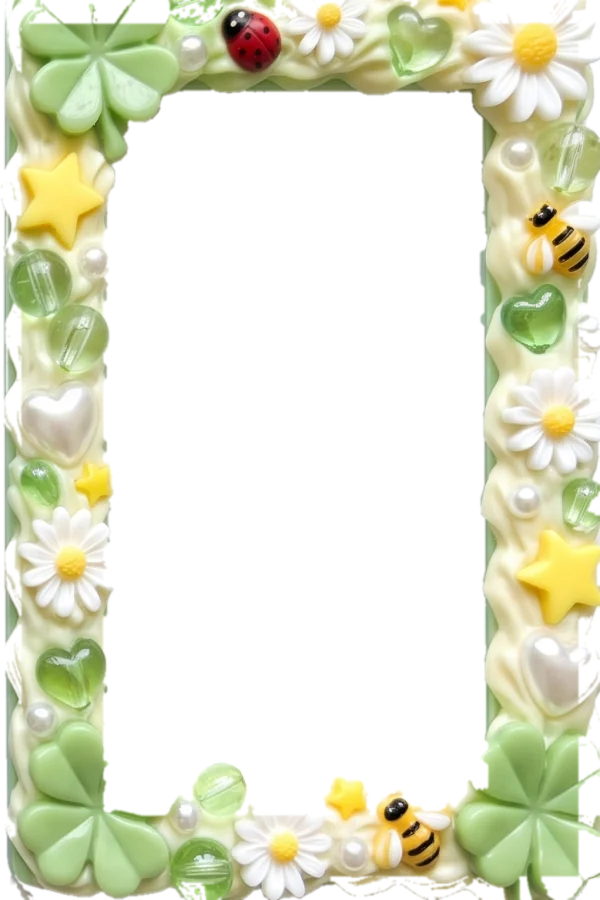
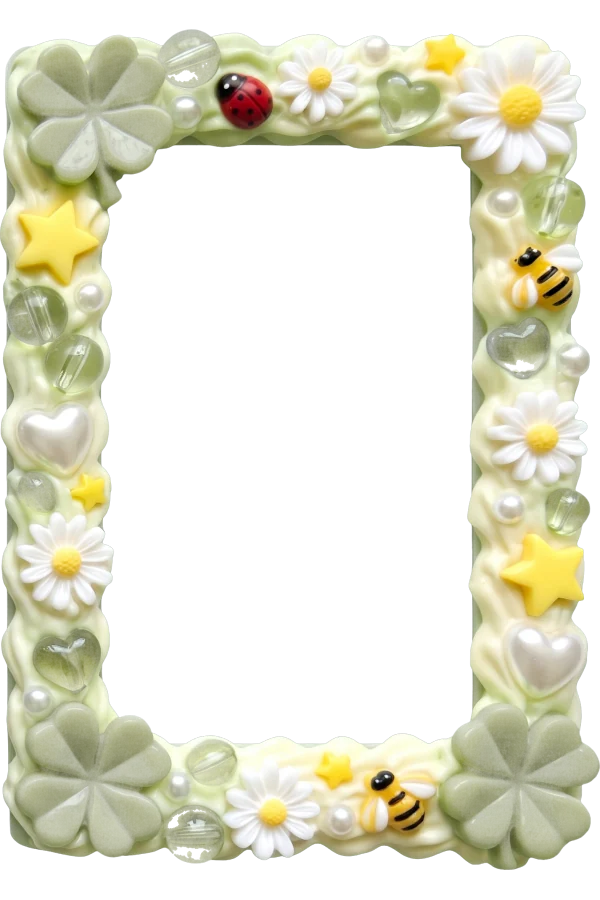
Add files via upload

diff --git a/zt-plus.js b/zt-plus.js
@@ -141,7 +141,7 @@ function zpToast(t) { const d = document.createElement('div'); d.className = 'zp
 .zp-slot .ck{width:20px;height:20px;border-radius:50%;border:2px solid #D1D6DB}
 .zp-slot.on{border-color:#191F28;background:#F9FAFB}.zp-slot.on .ck{border:6px solid #191F28}
 .pc2 .fimg{position:absolute;inset:0;background:center/100% 100% no-repeat;pointer-events:none;z-index:2}
-.pc2.pfi{background:#F4F5F7}.pc2.pfi .cap{z-index:4}
+.pc2.pfi{background:#F4F5F7}.pc2.pfi.fit,.zp-pchome .face .pc2.pfi.fit,.zp-pcv .face .pc2.pfi.fit{background:transparent!important;box-shadow:none!important;border-radius:0}.pc2.pfi.fit .fimg{filter:drop-shadow(0 10px 18px rgba(17,20,26,.22))}.zp-pchome .face:has(.fit)::after,.zp-pcv .face:has(.fit)::after{display:none}.pc2.pfi .cap{z-index:4}
 .pc2 .gl{position:absolute;inset:0;pointer-events:none;z-index:2;-webkit-mask-size:100% 100%;mask-size:100% 100%;background:linear-gradient(115deg,transparent 30%,rgba(255,255,255,.0) 40%,rgba(255,255,255,.85) 48%,rgba(210,240,255,.6) 50%,rgba(255,220,250,.5) 52%,transparent 62%);background-size:300% 100%;animation:zpGl 3.6s ease-in-out infinite;mix-blend-mode:screen}
 @keyframes zpGl{0%{background-position:120% 0}60%,100%{background-position:-60% 0}}
 .pc2 .tw{position:absolute;width:7cqw;height:7cqw;margin:-3.5cqw;pointer-events:none;z-index:3;background:radial-gradient(circle,#fff 0 7%,transparent 9%),linear-gradient(#fff,#fff) center/8% 100% no-repeat,linear-gradient(90deg,#fff,#fff) center/100% 8% no-repeat;-webkit-mask:radial-gradient(circle,#000 20%,transparent 70%);mask:radial-gradient(circle,#000 20%,transparent 70%);filter:drop-shadow(0 0 2px #fff) drop-shadow(0 0 5px rgba(200,230,255,.9));animation:zpTwk 2.2s ease-in-out infinite;opacity:0}
@@ -548,6 +548,7 @@ async function zpEquip(slot, id, quiet) {
 }
 
 /* ---------- 포토카드 ---------- */
+const ZP_INS = {"pf_amethyst": [11.3, 1.7, 6.2, 4.3], "pf_antique": [7.2, 2.3, 7.8, 0.7], "pf_blackcat": [6.9, 2.5, 6.2, 2.7], "pf_candy": [7.8, 3.0, 6.4, 1.8], "pf_clover": [4.3, 3.3, 5.0, 1.2], "pf_cookie": [7.4, 0.7, 5.9, 3.5], "pf_galaxy": [5.3, 0.7, 4.7, 1.8], "pf_gamer": [8.3, 4.7, 9.2, 5.0], "pf_gothic": [6.6, 2.2, 2.2, 1.8], "pf_ice": [20.4, 18.7, 7.6, 3.0], "pf_rainbow": [5.2, 0.5, 5.1, 0.0], "pf_ribbon": [6.8, 2.2, 5.8, 3.0], "pf_seashell": [5.4, 2.7, 6.4, 1.8], "pf_silver": [7.1, 3.2, 6.2, 4.8], "pf_silverfly": [10.3, 3.3, 5.0, 3.2], "pf_aqua": [5.7, 1.2, 6.1, 7.9], "pf_opal": [8.1, 2.2, 6.4, 4.6], "pf_aurora": [8.3, 2.2, 6.9, 3.8], "pf_mermaid": [4.7, 0.1, 3.9, 0.0], "pf_angelheart": [3.1, 0.9, 4.2, 0.0], "pf_mint": [8.1, 3.7, 4.9, 1.1]};
 const ZP_TW = [[9, 6], [88, 9], [94, 42], [6, 58], [90, 88], [14, 93], [50, 4], [52, 96]];
 function zpPCHTML(c, mini, edit) {
   const d = c.deco || {}, fr = ZP_ITEMS[c.frame] ? c.frame : 'pc_basic';
@@ -555,10 +556,10 @@ function zpPCHTML(c, mini, edit) {
   const sk = (d.st || []).map((s, i) => `<div class="sk ${edit && edit.sel === i ? 'sel' : ''}" data-i="${i}" style="left:${+s[1] || 50}%;top:${+s[2] || 50}%;--s:${Math.min(2.2, Math.max(.5, +s[3] || 1))}">${zpStkSVG(String(s[0]))}</div>`).join('');
   const it = ZP_ITEMS[fr]; let ov = '';
   if (it.img) {
-    const u = `${fr}.webp?v=1`; ov = `<i class="fimg" style="background-image:url('${u}')"></i>`;
+    const u = `${fr}.webp?v=3`; ov = `<i class="fimg" style="background-image:url('${u}')"></i>`;
     if (it.gem) ov += `<i class="gl" style="-webkit-mask-image:url('${u}');mask-image:url('${u}')"></i>` + ZP_TW.map(([x, y], i) => `<i class="tw" style="left:${x}%;top:${y}%;animation-delay:${(i * .37).toFixed(2)}s"></i>`).join('');
   }
-  return `<div class="pc2 pcf-${fr}${it.img ? ' pfi' : ''}">${fr === 'pc_army' ? '<i class="tag"></i>' : ''}<div class="ph ${photo ? '' : 'empty'}" ${photo ? `style="background-image:url('${photo}')"` : ''}>${photo ? '' : (mini ? '' : '사진을 넣어주세요')}</div>${ov}<div class="lay">${sk}</div>${d.cap ? `<div class="cap">${esc(String(d.cap).slice(0, 24))}</div>` : ''}</div>`;
+  return `<div class="pc2 pcf-${fr}${it.img ? ' pfi' : ''}${ZP_INS[fr] ? ' fit' : ''}">${fr === 'pc_army' ? '<i class="tag"></i>' : ''}<div class="ph ${photo ? '' : 'empty'}" style="${ZP_INS[fr] ? `inset:${ZP_INS[fr][0]}% ${ZP_INS[fr][1]}% ${ZP_INS[fr][2]}% ${ZP_INS[fr][3]}%;border-radius:4cqw;` : ''}${photo ? `background-image:url('${photo}')` : ''}">${photo ? '' : (mini ? '' : '사진을 넣어주세요')}</div>${ov}<div class="lay">${sk}</div>${d.cap ? `<div class="cap">${esc(String(d.cap).slice(0, 24))}</div>` : ''}</div>`;
 }
 function zpPCHome() {
   const box = q('zp-pc-home'); if (!box) return;

diff --git a/service-worker.js b/service-worker.js
@@ -1,4 +1,4 @@
-const C='zzamtiger-v75',A=['./','index.html','manifest.json','logo.png','icon-192.png','tiger_cheer.png','splash.jpg','card_hana.png','card_shinhan.png','card_ibk.png','card_kb.png','tiger_recruit.svg','tiger_ib.png','tiger_ilb.png','tiger_sb.png','tiger_bj.png','gf_cat.png','gf_bear.png','passbook.jpg','questions.js','px.js','route.js','stars.js','starq.js','zt-plus.js','shop_badges.png','shop_themes.png','rl_car.png','rl_wheelL.png','rl_wheelR.png','px_cream.jpg','px_serum.jpg','px_toner.jpg','px_mask.jpg','px_sun.jpg','px_cleansing.jpg','px_trouble.jpg','px_makeup.jpg','px_men.jpg','px_hair.jpg','px_body.jpg','px_lip.jpg'];
+const C='zzamtiger-v77',A=['./','index.html','manifest.json','logo.png','icon-192.png','tiger_cheer.png','splash.jpg','card_hana.png','card_shinhan.png','card_ibk.png','card_kb.png','tiger_recruit.svg','tiger_ib.png','tiger_ilb.png','tiger_sb.png','tiger_bj.png','gf_cat.png','gf_bear.png','passbook.jpg','questions.js','px.js','route.js','stars.js','starq.js','zt-plus.js','shop_badges.png','shop_themes.png','rl_car.png','rl_wheelL.png','rl_wheelR.png','px_cream.jpg','px_serum.jpg','px_toner.jpg','px_mask.jpg','px_sun.jpg','px_cleansing.jpg','px_trouble.jpg','px_makeup.jpg','px_men.jpg','px_hair.jpg','px_body.jpg','px_lip.jpg'];
 self.addEventListener('install',e=>{e.waitUntil(caches.open(C).then(c=>c.addAll(A)).then(()=>self.skipWaiting()))});
 self.addEventListener('activate',e=>{e.waitUntil(caches.keys().then(k=>Promise.all(k.filter(x=>x!==C).map(x=>caches.delete(x)))).then(()=>self.clients.claim()))});
 self.addEventListener('fetch',e=>{const r=e.request;if(r.method!=='GET'||new URL(r.url).origin!==location.origin)return;
